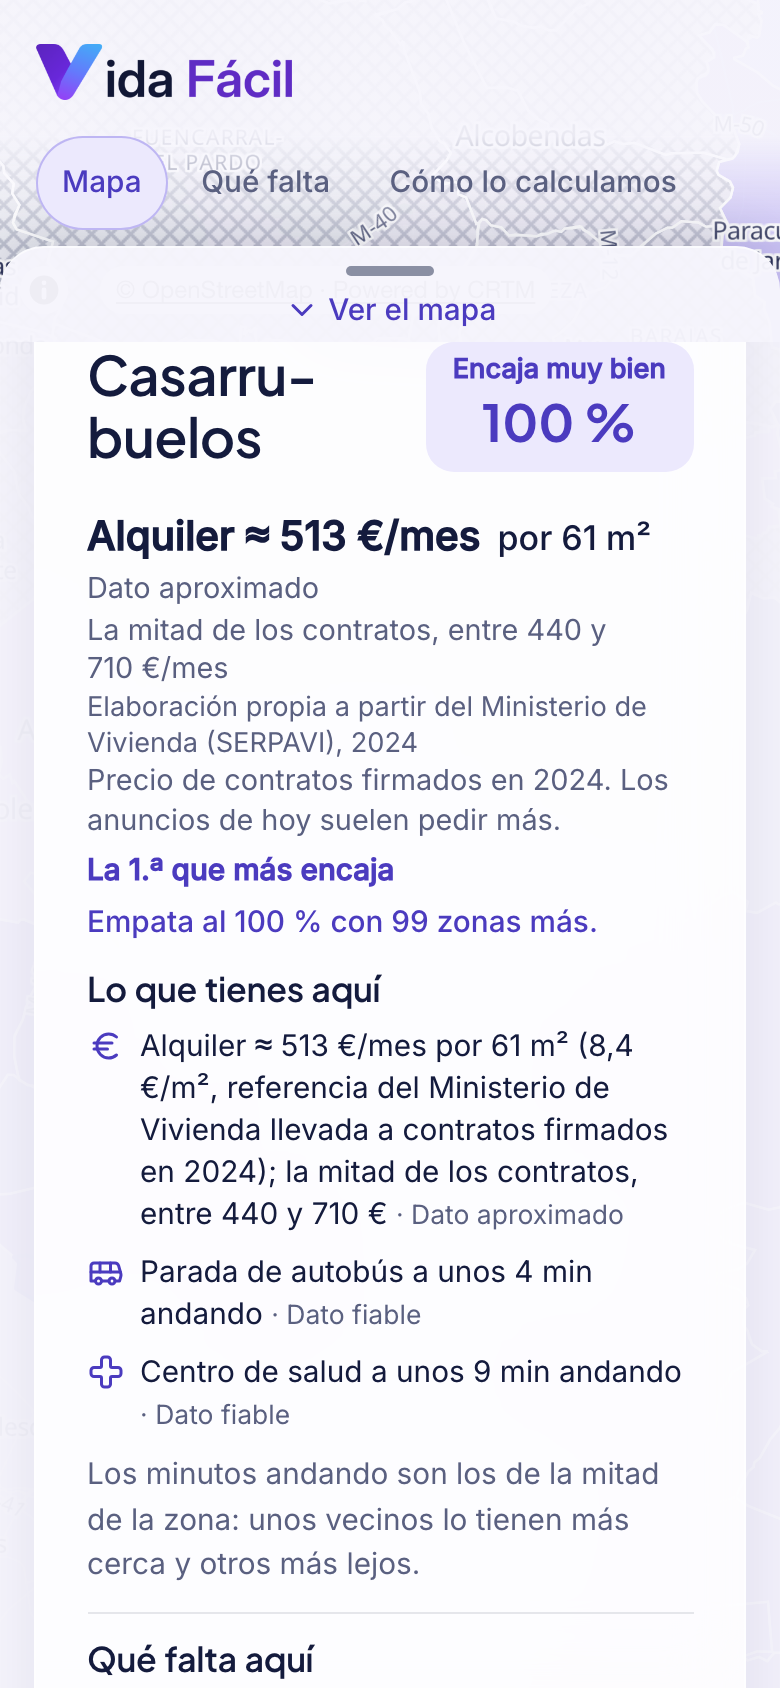
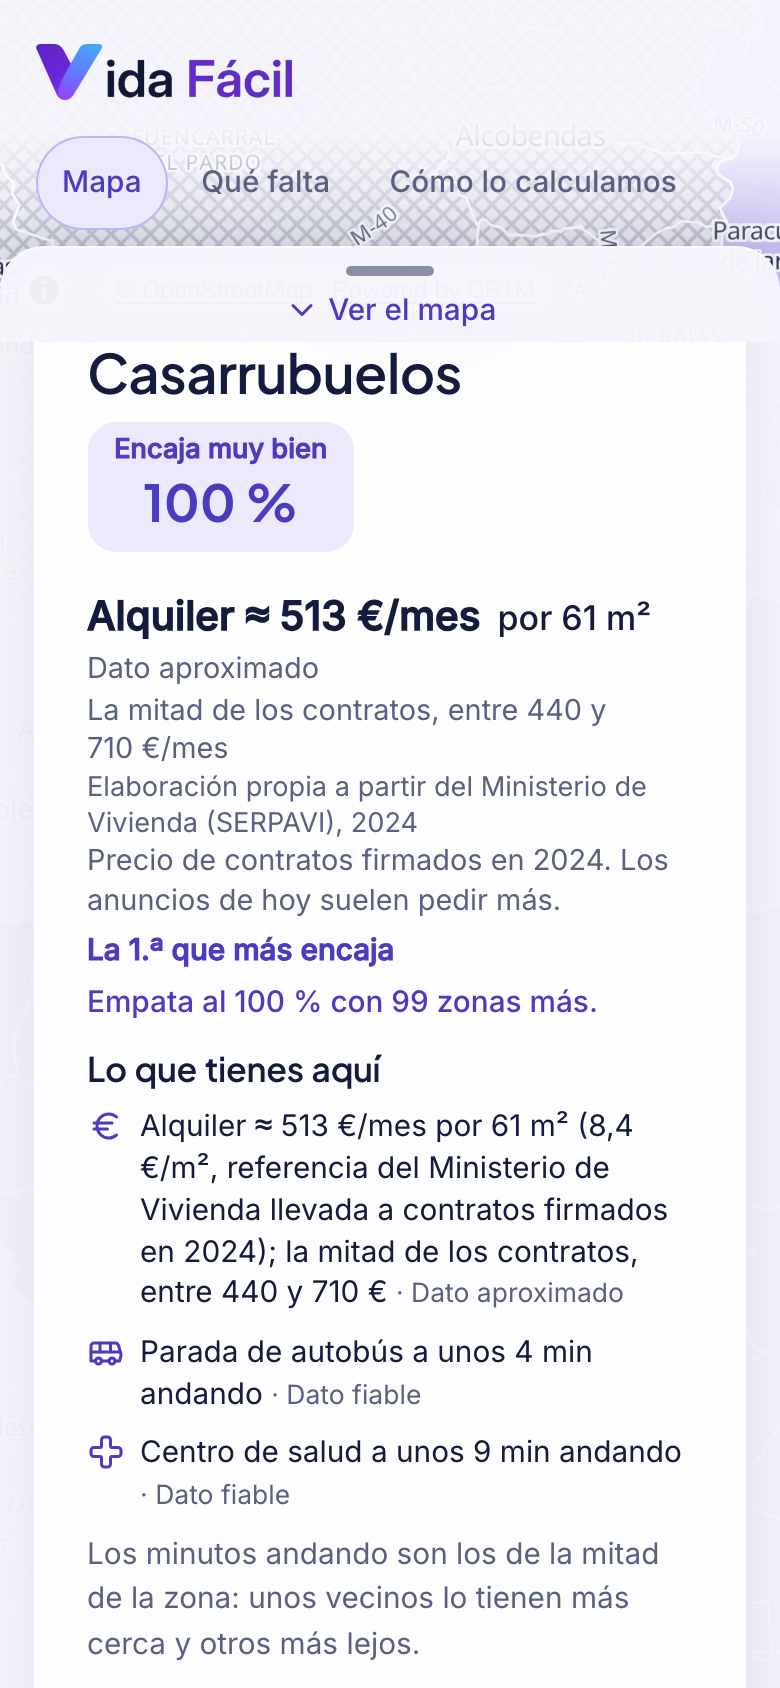
fit-0.9 web: gate evidence redone after the review of PR #75
All captures and the report again on one build: «Casarrubuelos» with the pill under the name at
1440 and 390 px, the folded ranking with a single tied row, the ties of the barrios of San
Blas-Canillejas and the method page with the trip caps over the window. axe with no violations;
the e2e against the local build, 74/74 and 48/48.

Changed region(s): [[0.0923, 0.2156, 0.8615, 1.0], [0.8, 0.4005, 0.8308, 0.4313]]

diff --git a/evidence/gate-06/2026-11-15-fit09-web/README.md b/evidence/gate-06/2026-11-15-fit09-web/README.md
@@ -7,7 +7,9 @@ Cómo se comprobó:
 - Web con `next build` y `next start`, con el buscador activo y esa API.
 - Playwright con Chromium, a 1440 y a 390 px, y axe (WCAG 2.2 AA): `report.json`.
 - e2e del repo (`infra/deploy/e2e/e2e_prod.mjs`) contra esta web: `e2e-local.txt`.
-- Vitest (521 tests), ESLint y `tsc`, en verde.
+- Vitest (525 tests), ESLint y `tsc`, en verde.
+
+**Revisión del PR #75 aplicada (R-01 a R-08, R-10 y R-12):** se rehicieron todas las capturas y el informe con el mismo build.
 
 Todas las capturas salen de respuestas reales de la API local, salvo las `10_SIMULADO_*`: son la respuesta real al caso de ejemplo con `match_band` añadido y los tres hechos nuevos que la línea A pondrá en la tarjeta. Sirven para ver que la web los enseña; las cifras de `fit-0.9` no están en ninguna captura.
 
@@ -15,24 +17,26 @@ Todas las capturas salen de respuestas reales de la API local, salvo las `10_SIM
 
 | Fichero | Qué se ve |
 |---|---|
+| `01c_ranking_plegado_empate_una_fila_*.png` | La lista plegada (5 filas): Fuencarral-El Pardo es la única a la vista de su empate y lleva «Empatan al 97 % (6 zonas)» (R-04) |
 | `01_ranking_bandas_empates_casi_*.png`, `01b_casi_presupuesto_390.png` | El caso de ejemplo. Cada fila lleva la banda encima del número («Encaja muy bien» / «98 %»). Latina, Moratalaz, Ciudad Lineal y Puente de Vallecas van bajo «Empatan al 98 %», unidas por una barra; las seis siguientes, bajo «Empatan al 97 %». Arriba, una sola vez, «Precio de contratos firmados en 2024. Los anuncios de hoy suelen pedir más.». En «Casi encajan» no hay %: «Se pasa ≈ 90 €/mes de tu presupuesto» (Chamartín, 1.590 € frente a 1.500) |
-| `02_tarjeta_latina_banda_empate_aviso2024_*.png` | La tarjeta de Latina: «Encaja muy bien» / «98 %», el aviso de 2024 bajo el alquiler, «La 1.ª que más encaja» y «Empata al 98 % con Puente de Vallecas, Moratalaz y Ciudad Lineal.». El hecho del alquiler ya no repite «un anuncio de hoy puede pedir más» |
+| `02_tarjeta_latina_banda_empate_aviso2024_*.png` | La tarjeta de Latina: «Encaja muy bien» / «98 %», el aviso de 2024 bajo el alquiler, «La 1.ª que más encaja» y «Empata al 98 % con Moratalaz, Ciudad Lineal y Puente de Vallecas.», en el orden de la lista (R-10). El hecho del alquiler ya no repite «un anuncio de hoy puede pedir más» |
 | `03_tarjeta_casi_chamartin_*.png` | La tarjeta de una zona de «Casi encajan»: sin %, con «Se pasa ≈ 90 €/mes de tu presupuesto» |
 | `04_compra_casi_se_pasa_*.png` | Comprar con 400.000 €, pareja y nada más (CN-compra del banco): «Se pasa ≈ 6.000 €» (Arganzuela), «≈ 11.000 €» (Tetuán), «≈ 28.000 €» (Centro)… «de tu presupuesto». Al comprar no sale el aviso de 2024 |
 | `05_trayecto_casi_tarda_*.png` | El ejemplo con «Tardar como mucho 30 min»: «Tarda ≈ 9 min más de lo que pides» (Latina, 38,5 min), «≈ 3 min» (Ciudad Lineal, 32,5)… |
-| `06_casarrubuelos_nombre_*.png`, `06b_casarrubuelos_tarjeta_*.png` | Alquiler de 800 €, nada más: Casarrubuelos sale 1.º. En la tarjeta, a 1440 y a 390 px, el nombre corta con guion por su sílaba («Casarru-buelos», `lang="es"` y `hyphens: auto`) y no se solapa con la pastilla |
+| `06_casarrubuelos_nombre_*.png`, `06b_casarrubuelos_tarjeta_*.png` | Alquiler de 800 €, nada más: Casarrubuelos sale 1.º. En la tarjeta, a 1440 y a 390 px, el nombre va entero en una línea y la pastilla del % baja bajo él, porque no caben juntos (`flex-wrap`, sin `hyphens`; R-02) |
+| `06c_barrios_empates_plegado_*.png`, `06d_barrios_empates_*.png` | «Los barrios que mejor encajan» de San Blas-Canillejas tras el ejemplo: Canillejas, Arcos y Simancas bajo «Empatan al 97 %», y Rosas y Amposta bajo «Empatan al 96 %», con la misma marca que la lista (R-05) |
 | `07_sin_lugar_aviso_*.png` | Sin lugar de trabajo ni de familia y con «Toda la Comunidad» (1.200 €, «Sin escaleras» y «Transporte»): «¿Trabajas fuera de casa? Dinos dónde o elige «Madrid capital» en «¿Dónde?» y afinamos el orden.» |
 | `08_sin_lugar_foco_trabajo_*.png` | Tras pulsar «Dinos dónde»: el foco en el campo de «Trabajo en», a la vista |
-| `09_como_lo_calculamos_encaje_*.png` | «Cómo sale el % de encaje» con el método nuevo. El «Ejemplo real» tiene la estructura nueva y todavía las cifras de `fit-0.8` (marcadas con un TODO solo en el código) |
+| `09_como_lo_calculamos_encaje_*.png` | «Cómo sale el % de encaje» con el método nuevo. Los topes del trayecto van sobre la ventana, como en la API: sin límite, más de 1 h y 1 h 30; con tu límite, el doble y el triple; los dos, solo con 3 días o más (R-01). La tabla de bandas sale de `lib/match.ts` (R-06). El «Ejemplo real» tiene la estructura nueva y todavía las cifras de `fit-0.8` (marcadas con un TODO solo en el código) |
 | `10_SIMULADO_hechos_fit09_*.png` | **Simulada.** Los hechos «Faltan escuelas infantiles: como mucho 89 %», «Más de 1 h de trayecto: como mucho 74 %» y uno con un `topic` que la web no conoce («Tardas más de 1 h 30…»): salen todos, el último con el icono de «otro» |
 
 ## Comprobaciones (`report.json`)
 
 - **Bandas:** salen de `match_band` si la API lo envía, y si no, del % con los umbrales 90, 75 y 60 (`lib/match.ts`, tests). Sin % no hay banda.
-- **Empates:** las filas seguidas con el mismo % llevan «Empatan al {pct} %» encima. Cada una lo dice al lector de pantalla: el nombre accesible de Latina es «1 Latina Distrito de Madrid Encaja muy bien · 98 % de encaje, empata con Puente de Vallecas, Moratalaz y Ciudad Lineal…».
+- **Empates:** las filas seguidas con el mismo % llevan «Empatan al {pct} %» encima, también en los barrios de un distrito. Cada una lo dice al lector de pantalla, con los nombres en el orden de la lista: el nombre accesible de Latina es «1 Latina Distrito de Madrid Encaja muy bien · 98 % de encaje, empata con Moratalaz, Ciudad Lineal y Puente de Vallecas…».
 - **«Casi encajan»:** la cifra sale de `value − threshold` de la condición que falla. Sin esas cifras, «No cumple: {condición}», como antes. Nunca se inventa (tests).
 - **Aviso de 2024:** una vez en la cabecera de la lista al alquilar y bajo el alquiler de la tarjeta; ninguna vez al comprar (`aviso_2024: 0`).
 - **«Dinos dónde» y «¿Dónde?»:** llevan el foco al campo de «Trabajo en» y a la opción marcada de «¿Dónde?» (`foco_tras_*`).
-- **Casarrubuelos:** el nombre en dos líneas, con `hyphens: auto` y `lang="es"`, y su borde derecho a la izquierda de la pastilla (`solapa: false`).
+- **Casarrubuelos:** el nombre en una línea y la pastilla debajo (`pastilla_bajo_el_nombre: true`), sin solaparse con el texto del nombre (`solapa: false`).
 - **axe:** 0 incidencias en todas las pantallas, a 1440 y a 390 px. Ningún desborde horizontal ni error en la consola.
-- **e2e:** 70 de 70 a 1440 y 44 de 44 a 390. El check de los hechos de la tarjeta acepta el hecho del alquiler sin «; un anuncio de hoy puede pedir más», que ahora dice el aviso; pasa también contra la web de producción de hoy.
+- **e2e:** 74 de 74 a 1440 y 48 de 48 a 390. El check de los hechos de la tarjeta acepta el hecho del alquiler sin «; un anuncio de hoy puede pedir más», que ahora dice el aviso (`factAsShown` de `infra/deploy/e2e/shown_text.mjs`, que usan también `check-search` y `check-qa`). Cuatro checks nuevos: el aviso de 2024 sale una vez en la lista y en la tarjeta al alquilar, «Comprar» llega a la API y al comprar el aviso no sale. Esos cuatro fallarán contra producción hasta que se despliegue este PR.
